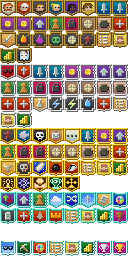
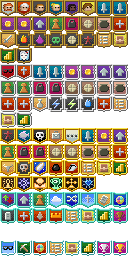
Badge: Blue Star, for suppressing the Blue Star
A gold badge (cell 93) unlocked when the Blue Star falls in its boss fight, drawn new: a glowing
blue heart in a wheel of grey legs inside the gold frame of the victory badges.

Claude-Session: https://claude.ai/code/session_01CLpxJCP8pRQaCKBaMF3uRd

Changed region(s): [[0.625, 0.6875, 0.75, 0.75]]

diff --git a/core/src/main/java/com/shatteredpixel/shatteredpixeldungeon/actors/mobs/boss/BlueStar.java b/core/src/main/java/com/shatteredpixel/shatteredpixeldungeon/actors/mobs/boss/BlueStar.java
@@ -22,6 +22,7 @@
 package com.shatteredpixel.shatteredpixeldungeon.actors.mobs.boss;
 
 import com.shatteredpixel.shatteredpixeldungeon.Assets;
+import com.shatteredpixel.shatteredpixeldungeon.Badges;
 import com.shatteredpixel.shatteredpixeldungeon.Dungeon;
 import com.shatteredpixel.shatteredpixeldungeon.actors.Actor;
 import com.shatteredpixel.shatteredpixeldungeon.actors.Char;
@@ -239,6 +240,7 @@ public class BlueStar extends Mob {
 		//L Corp headquarters opens again, the stairs in Malkuth's room lead back up
 		Dungeon.level.locked = false;
 		GLog.p(Messages.get(this, "suppressed"));
+		Badges.validateBlueStar();
 	}
 
 	//it is always aware of the hero, so only an invisible hero catches it off guard

diff --git a/core/src/main/java/com/shatteredpixel/shatteredpixeldungeon/Badges.java b/core/src/main/java/com/shatteredpixel/shatteredpixeldungeon/Badges.java
@@ -172,6 +172,7 @@ public class Badges {
 		HOPE_TO_BE_BETTER           ( 90 ), //victory as Hod
 		COURAGE_TO_LIVE_ON          ( 91 ), //victory as Netzach
 		EXPECTATION_OF_MEANING      ( 92 ), //victory as Tiphereth
+		BLUE_STAR                   ( 93 ), //suppressing the Blue Star
 
 		//platinum
 		MANY_BUFFS                  ( 96 ),
@@ -1081,6 +1082,11 @@ public class Badges {
 	public static void validateWelcomeToLobotomy() {
 		displayBadge( Badge.WELCOME_TO_LOBOTOMY );
 		saveGlobal();
+	}
+
+	//the Blue Star: suppressing it in its boss fight
+	public static void validateBlueStar() {
+		displayBadge( Badge.BLUE_STAR );
 	}
 
 	public static void validateGamesPlayed() {
